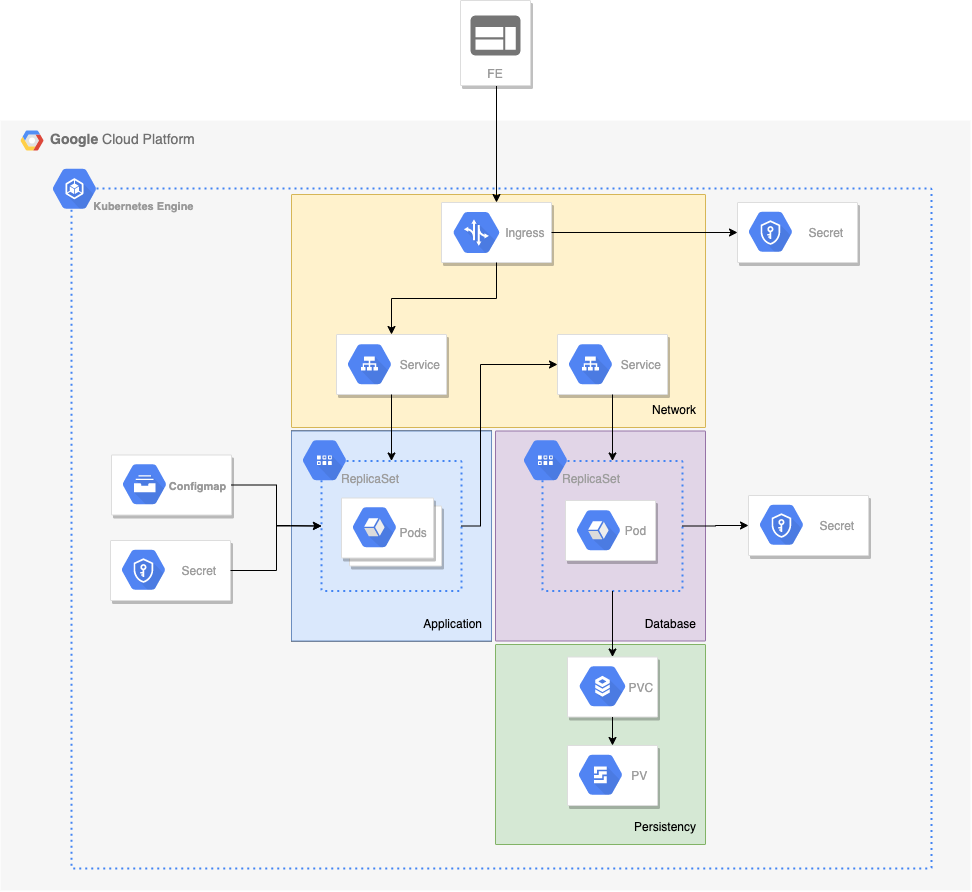
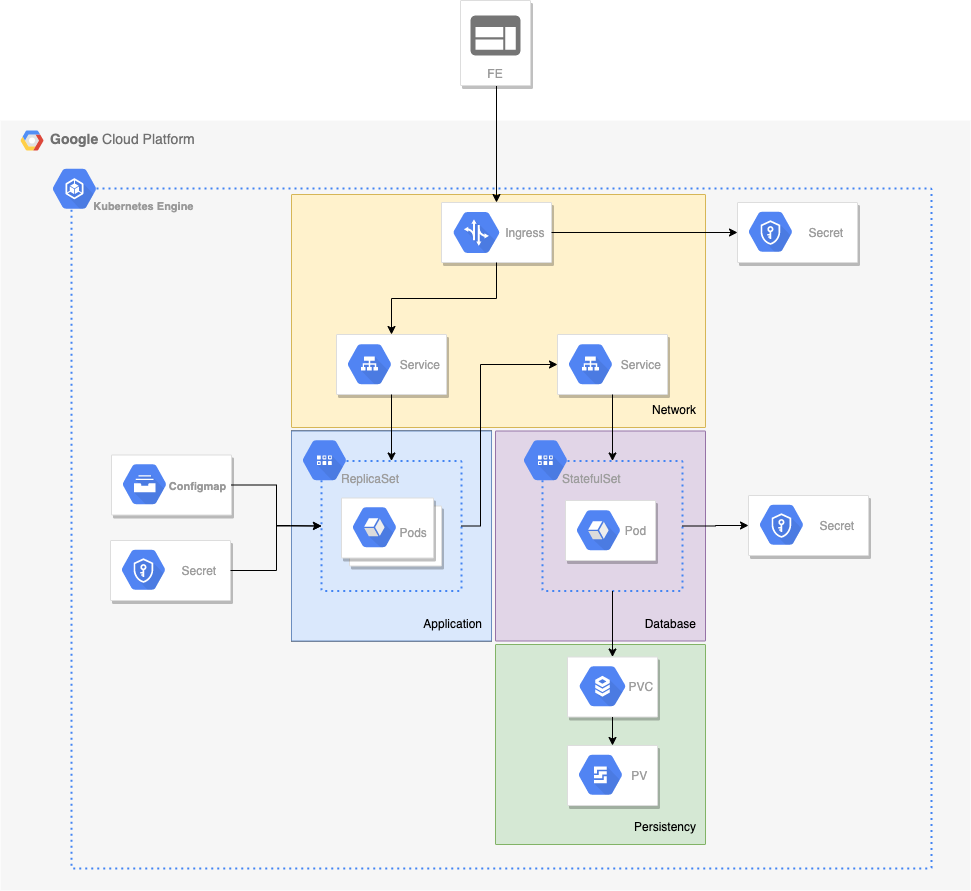
presentation

diff --git a/presentation/k8s.md b/presentation/k8s.md
@@ -38,9 +38,10 @@ Official documentation defines it as
 ```markdown
 - Using kubectl  
 - Minikube
-- Pod, Deployment & StatefulSet
+- Pod, Deployment
 - ConfigMaps & Secrets
 - Volumes
+- StatefulSet
 - Service & Ingress
 - Demo Time
 - CLI Tools
@@ -62,21 +63,27 @@ If you are using `oh-my-zsh` you can enable the `kubectl` plugin which provides 
 
 # Minikube
 
-## TODO
+`Minikube` is a tool which allows to run a simple Kubernetes cluster on your machine. 
+
+Assuming to have Minikube already [installed](https://kubernetes.io/docs/tasks/tools/install-minikube/) locally (for those using mac, it can be installed with `homebrew`), just run the following to start it up:
+
+```shell
+$ minikube start
+```
 
 ---
 
-You can list your contexts with:
+Once `Minikube` is up and running, you can list your contexts with:
 
 ```shell
 $ k config get-contexts
 
 CURRENT   NAME                  CLUSTER               AUTHINFO                                          NAMESPACE
-*         gke_abiding-orb-XXX   gke_abiding-orb-XXX   gke_abiding-orb-XXX
+*         minikube              minikube              minikube
 
 ```
 
-if you have more than one context use the following:
+if you have more than one context use the following to select `Minikube`:
 
 ```shell
 $ k config use-context minikube
@@ -191,12 +198,6 @@ resources:
     cpu: 50m
     memory: 500Mi
 ```
-
----
-
-# StatefulSet
-
-## TODO
 
 ---
 
@@ -377,6 +378,21 @@ spec:
       persistentVolumeClaim:
         claimName: db-claim
 ```
+
+---
+
+# StatefulSet
+
+Unlike a `Deployment`, a [StatefulSet](https://kubernetes.io/docs/concepts/workloads/controllers/statefulset/) manages Pods containing stateful applications. StatefulSet guarantees:
+  
+```markdown
+- Incremental and unique Pod identifier
+- Deploy, scaling and deletion order
+- Stable hostname
+- Persistent Volume Claim creation through `volumeClaimTemplates` keyword
+```
+
+In our case, the database will persist data onto the disk, so the SatefulSet suites our needs.
 
 ---
 
